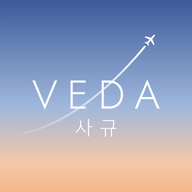
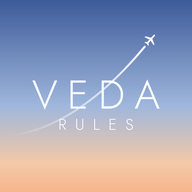
아이콘 글자를 VEDA RULES로 변경

Changed region(s): [[0.375, 0.5938, 0.5938, 0.7188], [0.2812, 0.5938, 0.3438, 0.6875], [0.6562, 0.5938, 0.6875, 0.6875]]

diff --git a/site/index.html b/site/index.html
@@ -7,8 +7,8 @@
 <meta name="description" content="인천국제공항공사 최신 내부규정 키워드 검색">
 <meta name="theme-color" content="#007f84">
 <link rel="manifest" href="manifest.webmanifest">
-<link rel="icon" href="favicon.png?v=23" type="image/png">
-<link rel="apple-touch-icon" href="icon-192.png?v=23">
+<link rel="icon" href="favicon.png?v=24" type="image/png">
+<link rel="apple-touch-icon" href="icon-192.png?v=24">
 <link rel="stylesheet" href="style.css?v=23">
 </head>
 <body>
